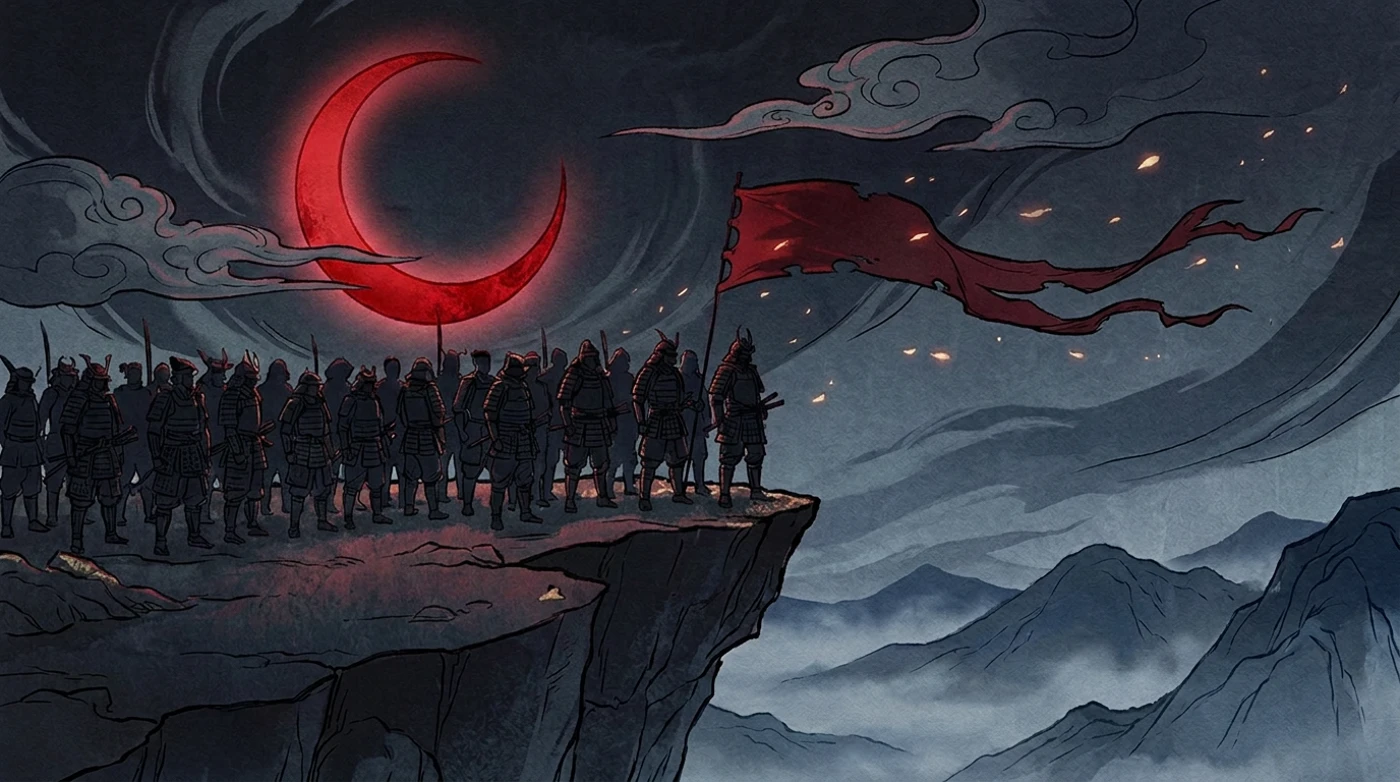
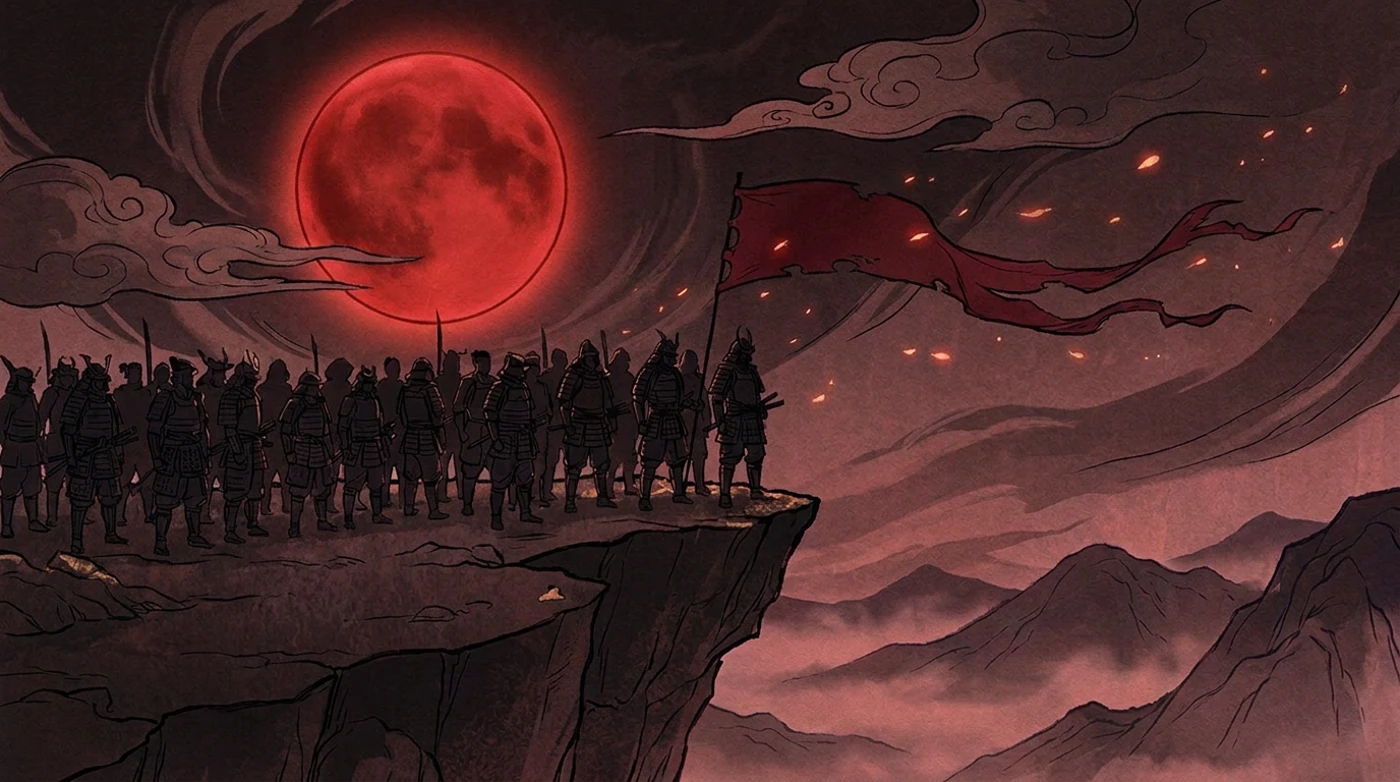
Final site state: option-2 title, blood-moon comic, R-seal scroll + handoff docs

diff --git a/index.html b/index.html
@@ -24,22 +24,17 @@
   #hub img.art { animation:flicker 9s infinite; }
   @media (prefers-reduced-motion: reduce) { #hub img.art { animation:none; } }
 
-  /* the name, burned into the blood moon */
+  /* the name, in its original brush strokes, centered in the blood moon */
   #title {
-    position:absolute; left:56.3%; top:25%; transform:translate(-50%,-50%);
-    font-family:"Yu Mincho","Hiragino Mincho ProN",Georgia,serif;
-    font-size:clamp(34px, 7.2vw, 110px); font-weight:900; letter-spacing:.22em;
-    color:#f7ecd9; -webkit-text-stroke:2px rgba(60,4,4,.85); pointer-events:none;
-    text-shadow:
-      0 0 18px rgba(255,80,50,.85),
-      0 0 46px rgba(200,30,20,.7),
-      0 5px 0 rgba(40,2,2,.9),
-      0 8px 22px rgba(0,0,0,.9);
+    position:absolute; left:56.5%; top:21.5%; transform:translate(-50%,-50%);
+    width:28%; pointer-events:none;
+    filter:drop-shadow(0 0 16px rgba(255,80,50,.65)) drop-shadow(0 6px 16px rgba(0,0,0,.85));
     animation:titlePulse 4.5s ease-in-out infinite;
   }
+  #title img { width:100%; display:block; }
   @keyframes titlePulse {
-    0%,100% { text-shadow:0 0 18px rgba(255,80,50,.85), 0 0 46px rgba(200,30,20,.7), 0 5px 0 rgba(40,2,2,.9), 0 8px 22px rgba(0,0,0,.9); }
-    50% { text-shadow:0 0 26px rgba(255,110,70,1), 0 0 70px rgba(220,40,25,.9), 0 5px 0 rgba(40,2,2,.9), 0 8px 22px rgba(0,0,0,.9); }
+    0%,100% { filter:drop-shadow(0 0 14px rgba(255,80,50,.6)) drop-shadow(0 6px 16px rgba(0,0,0,.85)); }
+    50% { filter:drop-shadow(0 0 26px rgba(255,110,70,.95)) drop-shadow(0 6px 16px rgba(0,0,0,.85)); }
   }
   /* banner doors */
   .door { position:absolute; display:block; cursor:pointer; border-radius:6px; outline:none; }
@@ -91,7 +86,7 @@
     <img class="art" src="assets/hub.png" alt="RONIN ARCADE — a lone ronin overlooks a burning village beneath a blood moon"
          onerror="this.onerror=null;this.src='https://v3b.fal.media/files/b/0aa701ac/OES9SbG3elxEWYutFSn7E_arcade-hub.png';">
 
-    <div id="title" aria-hidden="true">RONIN</div>
+    <div id="title" aria-hidden="true"><img src="assets/title-ronin.webp" alt="RONIN"></div>
     <a class="door" id="dDuel" href="duel/" aria-label="Play THE DUEL"><span class="tag">ENTER — THE DUEL</span></a>
     <a class="door" id="dRun"   href="run/" aria-label="Play BLADE RUN"><span class="tag">ENTER — BLADE RUN</span></a>
     <a class="door" id="dAdv"   href="adventure/" aria-label="Play ADVENTURE"><span class="tag">ENTER — ADVENTURE</span></a>

diff --git a/HANDOFF.md b/HANDOFF.md
@@ -1,0 +1,110 @@
+# RONIN ARCADE — Developer Handoff
+
+Everything you need to run, modify, and extend this project. Last updated 2026-08-20.
+
+## The short version
+
+- **Live site**: https://ronin-arcade.netlify.app
+- **This repo is the entire site.** Pure static files — no build step, no framework, no server, no package.json. `index.html` at the root is the hub; every game is a folder. Host it anywhere that serves static files.
+- Run locally: `npx serve .` (or any static server). Open the served URL.
+
+## Structure
+
+```
+index.html        the hub — blood-moon menu, banner doors, the scroll
+assets/           hub art (hub.png), title lettering, the comic scroll icon
+duel/             THE DUEL — 1v1 fighter (best-of-3 vs THE RIVAL)
+run/              BLADE DASH — endless forest runner
+adventure/        THE SHIFTING VALLEY — Zelda-style flip-screen quest
+forge/            THE FORGE — layered character builder
+comic/            THE FIRST BLOOD — the 14-page story reader
+shared/           sprites.js (strip loader + chroma keyer) and cdn.js (fallback URLs)
+```
+
+Every game is self-contained: one `index.html` + `js/` + `assets/`. All paths are relative, so the site is iframe-safe and can be embedded on another domain.
+
+## How the rendering works (the one thing to understand)
+
+All character art is **sprite strips**: grids of animation frames in a single webp
+(e.g. 8 columns x 6 rows = 48 frames, each cell 532x300 in the duel, 266x300 in the
+runner). Strips are stored on a chroma-green or transparent background;
+`shared/sprites.js` keys the green out at load time in a canvas, so games just draw
+frame rectangles. `shared/cdn.js` maps every strip filename to a permanent fal.media
+URL — if a local file 404s, the loader falls back to the CDN copy automatically.
+
+**THE FORGE** works differently: every wardrobe piece (body, garb, armor, weapon,
+hair, mask, hat) is a full-canvas 768x1376 layer generated over the same fixed pose,
+so layers stack 1:1 with zero alignment code. `forge/js/forge.js` holds the catalog
+(what exists per gender), the layer stack order, and the dye formulas (per-layer
+luminance recolor — each color option touches only its own layer). Weapons carried on
+the back are drawn *before* the body (`WEAPON_BEHIND` set); the bow also pushes a
+`-back` quiver layer behind the body.
+
+## The story canon (for any new content)
+
+One community held two tokens — in the story: **one castle, two daimyō**. The clan
+stayed loyal to the very end; the daimyō rode out with the treasury and never looked
+back. The abandoned community became **RONIN** — masterless, but the clan was always
+them. One crimson banner stitched from the two dead ones. From the betrayal onward,
+every scene is lit by a **full blood moon** (gold crescent before it). Token names
+never appear in the art or captions — the allegory carries it. The comic
+(`comic/index.html`) is the reference telling of this story.
+
+## Art pipeline (how every asset here was made)
+
+Images: **fal.ai nano-banana-pro** (`/edit` with reference images for anything that
+must match the canon character or an existing composition). Every layer/sprite prompt
+ends with "everything else flat solid chroma green (#00FF00)". Style anchors:
+- Games/hub: "dark gothic anime, near-black palette, blood-red accents"
+- Comic: "Japanese woodblock ukiyo-e, washi paper texture, deep indigo night, blood
+  moon, dark silhouettes, single crimson accent, no text"
+
+Animations: **fal.ai seedance i2v** (image-to-video) from a still of the character on
+solid green — 5s, 720p, "strict right-facing profile, camera locked, background stays
+flat chroma green". Then ffmpeg: sample N frames evenly (`fps=N/5`), scale to 300px
+cell height, `colorkey=0x27FE16:0.28:0.06,despill`, `tile=8xR` into a strip.
+
+Hard-won rules:
+- Generated layers often bake the body/head/outfit in invisibly. Always audit a new
+  layer by compositing it and checking zones that should be empty; fix by
+  regenerating "ONLY the item, floating, NO body, not even a faint outline".
+- The i2v master image must be composited on solid green — a transparent master makes
+  the model invent a background.
+- Generators letterbox with green bars sometimes; crop the scene band before keying.
+- For scale/position problems, don't re-roll: crop → scale → overlay deterministically
+  (ffmpeg), it is exact and free.
+
+## Deploying
+
+The live site deploys to Netlify (site name `ronin-arcade`). Any method works —
+drag-and-drop the repo folder in the Netlify UI, `netlify deploy --prod --dir .`, or
+connect this repo in the Netlify dashboard for auto-deploys on push. There is no
+build command; publish directory is the repo root.
+
+## Game notes for whoever continues
+
+- **DUEL** (`duel/js/game.js`): attack data lives in `P_ATK` / `R_ATK` — frame
+  windows (`from/hitA/hitB/last`), damage, ranges. Hit windows are tuned to the
+  current strips' contact frames; if you swap animation strips, retune those numbers.
+  `assets.js` documents which strip file is which move.
+- **BLADE DASH** (`run/js/game.js`): course generation in `genAhead` (difficulty
+  ramps by distance), environment art in `run/assets/env-*.webp`, obstacles use
+  sprite art with a pulsing red glow so they read as dangers. The hero sprite sinks
+  `168*0.062` px so his feet meet the ground (the frames carry padding).
+- **FORGE** (`forge/js/forge.js`): to add a wardrobe piece, generate the layer over
+  the anchor pose, drop the webp in `forge/assets/`, and add one catalog entry. The
+  dye system needs no changes — it recolors whatever the layer contains.
+- **VALLEY** (`adventure/js/game.js`): tile-based; paths reshuffle every 30s; door
+  corridors are auto-sanitized so exits are never blocked (keep that rule).
+- **COMIC** (`comic/index.html`): pages are plain `<img>` + caption blocks. To add
+  an episode, generate pages in the woodblock style above, drop them in
+  `comic/assets/`, and copy the page markup.
+
+## Backlog the buyer knows about
+
+- More FORGE hair styles (some were removed at the buyer's request; more can be
+  generated with the same layer pipeline).
+- Warrior poses in the FORGE (would need a full layer set per pose — big job).
+- Episode V of the comic, when the next story video exists.
+
+浪人 — a masterless blade bows to no one.
